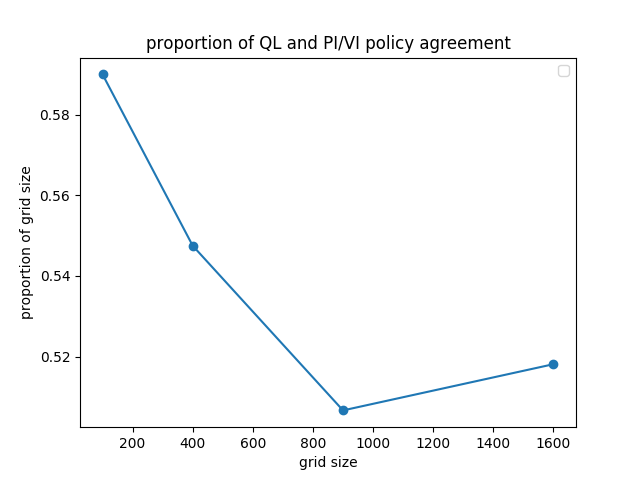
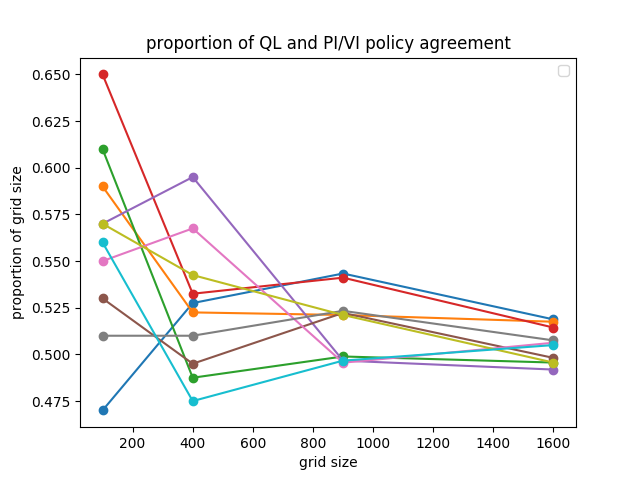
q learn annealing start and multiple q learning runs

diff --git a/q_learning.py b/q_learning.py
@@ -55,6 +55,36 @@ def print_q_policy(h, greens, reds, pol):
         print(strin)
 
 
+def q_learning_anneal_iter(T, R, Q, s, gamma, alpha, h, greens, reds, temp):
+    l = h**2
+    r = R[s]
+    s_y = s//h
+    s_x = s%h
+    if [s_y,s_x] in greens or [s_y,s_x] in reds:
+        for a in range(4):
+            Q[s,a] = r
+        while True:
+            s = np.random.randint(0,l)
+            s_y = s//h
+            s_x = s%h
+            if [s_y,s_x] not in greens and [s_y,s_x] not in reds:
+                break
+        return Q, s
+    a = np.random.randint(0,4)
+    prev_q = Q[s,a]
+    s_new = np.random.choice(range(len(T[a][s])), 1, p=T[a][s])
+    s_new = s_new[0]
+    x = r + gamma*np.amax(Q[s_new])
+    new_q = (1-alpha)*Q[s,a] + alpha*x
+    if new_q >= prev_q:
+        Q[s,a] = new_q
+        return Q, s_new
+    elif np.random.random() < np.e**((new_q-prev_q)/temp):
+        Q[s,a] = new_q
+        return Q, s_new
+    return Q, s
+
+
 def q_learning_iter(T, R, Q, s, gamma, alpha_t, h, l, greens, reds, prob=0.2):
     r = R[s]
     s_y = s//h
@@ -77,6 +107,7 @@ def q_learning_iter(T, R, Q, s, gamma, alpha_t, h, l, greens, reds, prob=0.2):
     x = r + gamma*np.amax(Q[s_new])
     Q[s,a] = (1-alpha_t)*Q[s,a] + alpha_t*x
     return Q, s_new
+
 
 transitions_all_grids, rewards_all_grids, greens_all_grids, reds_all_grids = all_info()
 
@@ -263,50 +294,65 @@ def run_q_learn(hs, transitions_all_grids, rewards_all_grids, greens_all_grids, 
 
 hs = [10, 20, 30, 40]
 
-all_Q, all_sum_q_values, ql_times, ql_iterations = run_q_learn(hs, transitions_all_grids, rewards_all_grids, greens_all_grids, reds_all_grids, prob=0.2)
-pi_policies = pi_policy_info(hs, transitions_all_grids, rewards_all_grids)
+mult_all_Q = []
+mult_all_sum_q_values = []
+mult_ql_times = []
+mult_ql_iterations = []
+mult_difs = []
+for _ in range(10):
+    all_Q, all_sum_q_values, ql_times, ql_iterations = run_q_learn(hs, transitions_all_grids, rewards_all_grids, greens_all_grids, reds_all_grids)
+    pi_policies = pi_policy_info(hs, transitions_all_grids, rewards_all_grids)
+
+    for i in range(4):
+        pi_policies[i] = np.array(pi_policies[i])
+        #all_Q[i] = np.argmax(all_Q[i], axis=1)
+
+    difs = []
+    for i in range(4):
+        difs.append(policy_dif(hs[i], greens_all_grids[i], reds_all_grids[i], pi_policies[i], np.argmax(all_Q[i], axis=1)))
+    mult_all_Q.append(all_Q)
+    mult_all_sum_q_values.append(all_sum_q_values)
+    mult_ql_times.append(ql_times)
+    mult_ql_iterations.append(ql_iterations)
+    mult_difs.append(difs)
+
+for m in range(10):
+    plt.plot([h**2 for h in hs], [float(h**2-dif)/(h**2) for h, dif in zip(hs, mult_difs[m])], linestyle='-', marker='o')
+plt.title("proportion of QL and PI/VI policy agreement")
+plt.xlabel("grid size")
+plt.ylabel("proportion of grid size")
+plt.legend()
+plt.savefig("ql_vs_pi_policies_initial")
+plt.clf()
+
+for m in range(10):
+    plt.plot([h**2 for h in hs], mult_ql_times[m], linestyle='-', marker='o')
+plt.title("Q learning times")
+plt.xlabel("grid size")
+plt.ylabel("time (sec)")
+plt.savefig("ql_times_initial")
+plt.clf()
+
+for m in range(10):
+    plt.plot([h**2 for h in hs], mult_ql_iterations[m], linestyle='-', marker='o')
+plt.title("Q learning iterations")
+plt.xlabel("grid size")
+plt.ylabel("iterations")
+plt.savefig("ql_iterations_initial")
+plt.clf()
 
 for i in range(4):
-    pi_policies[i] = np.array(pi_policies[i])
+    plt.plot(range(len(mult_all_sum_q_values[0][i])), mult_all_sum_q_values[0][i], linestyle='-', label='grid '+str(hs[i])+'x'+str(hs[i]))
+plt.title("Q Value Variation")
+plt.xlabel("iteration")
+plt.ylabel("difference in Q values")
+plt.legend()
+plt.savefig("sum_q_value_curves_initial")
+plt.clf()
 
-# difs = []
-# for i in range(4):
-#     difs.append(policy_dif(hs[i], greens_all_grids[i], reds_all_grids[i], pi_policies[i], np.argmax(all_Q[i], axis=1)))
-
-# plt.plot([h**2 for h in hs], [float(h**2-dif)/(h**2) for h, dif in zip(hs, difs)], linestyle='-', marker='o')
-# plt.title("proportion of QL and PI/VI policy agreement")
-# plt.xlabel("grid size")
-# plt.ylabel("proportion of grid size")
-# plt.legend()
-# plt.savefig("ql_vs_pi_policies_initial")
-# plt.clf()
-
-# for i in range(4):
-#     plt.plot(range(len(all_sum_q_values[i])), all_sum_q_values[i], linestyle='-', label='grid '+str(hs[i])+'x'+str(hs[i]))
-# plt.title("Q Value Variation")
-# plt.xlabel("iteration")
-# plt.ylabel("difference in Q values")
-# plt.legend()
-# plt.savefig("sum_q_value_curves_initial")
-# plt.clf()
-
-# for m in range(10):
-#     plt.plot([h**2 for h in hs], ql_iterations, linestyle='-', marker='o')
-# plt.title("Q learning iterations")
-# plt.xlabel("grid size")
-# plt.ylabel("iterations")
-# plt.savefig("ql_iterations_initial")
-# plt.clf()
-
-# for m in range(10):
-#     plt.plot([h**2 for h in hs], ql_times, linestyle='-', marker='o')
-# plt.title("Q learning times")
-# plt.xlabel("grid size")
-# plt.ylabel("time (sec)")
-# plt.savefig("ql_times_initial")
-# plt.clf()
+#print_policy_dif(hs[0], greens_all_grids[0], reds_all_grids[0], np.argmax(all_Q[0], axis=1), pi_policies[0])
+#print_policy_dif(hs[3], greens_all_grids[3], reds_all_grids[3], np.argmax(all_Q[3], axis=1), pi_policies[3])
 
 # print_q_policy(hs[0], greens_all_grids[0], reds_all_grids[0], all_Q[0])
 # print_q_policy(hs[3], greens_all_grids[3], reds_all_grids[3], all_Q[3])
-print_policy_dif(hs[0], greens_all_grids[0], reds_all_grids[0], np.argmax(all_Q[0], axis=1), pi_policies[0])
-print_policy_dif(hs[3], greens_all_grids[3], reds_all_grids[3], np.argmax(all_Q[3], axis=1), pi_policies[3])
+
